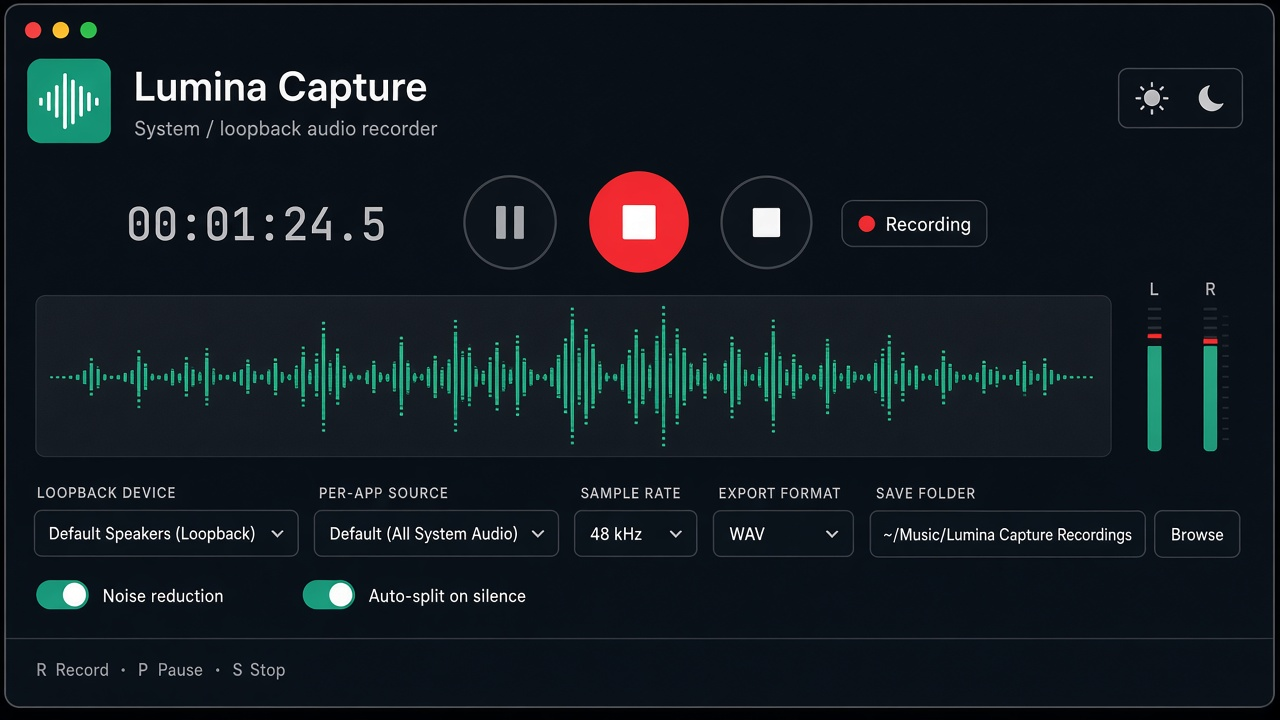
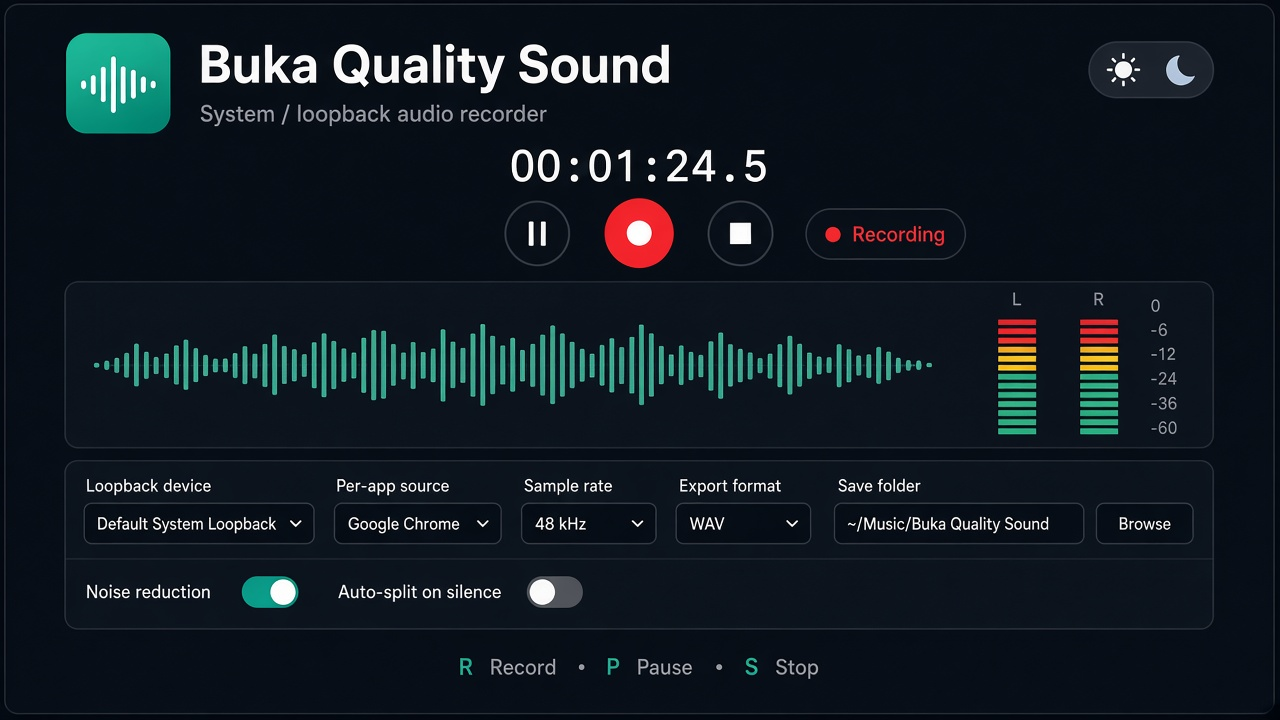
Rebrand to Buka Quality Sound and add portable zip
Rename user-facing product branding, bundle id, and crate/package
names; regenerate dark/light UI mockups; add portable package scripts
and distribution zip helpers for Desktop delivery.

diff --git a/system-audio-recorder/src/main.ts b/system-audio-recorder/src/main.ts
@@ -9,7 +9,7 @@ app.innerHTML = `
       <div class="brand">
         <div class="logo" aria-hidden="true"></div>
         <div>
-          <h1>Lumina Capture</h1>
+          <h1>Buka Quality Sound</h1>
           <p>System / loopback audio recorder</p>
         </div>
       </div>
@@ -161,7 +161,7 @@ function showError(msg: string) {
 
 function applyTheme(theme: "dark" | "light") {
   document.documentElement.setAttribute("data-theme", theme);
-  localStorage.setItem("lumina-theme", theme);
+  localStorage.setItem("buka-theme", theme);
   els.themeBtn.textContent = theme === "dark" ? "Light" : "Dark";
 }
 
@@ -331,7 +331,7 @@ async function stopRecording() {
 }
 
 async function init() {
-  const saved = localStorage.getItem("lumina-theme");
+  const saved = localStorage.getItem("buka-theme");
   applyTheme(saved === "light" ? "light" : "dark");
 
   const [caps, devices, apps, defaults, outDir] = await Promise.all([

diff --git a/system-audio-recorder/src/api.ts b/system-audio-recorder/src/api.ts
@@ -90,7 +90,7 @@ let demoPhase = 0;
 let demoSettings: RecordSettings = {
   sample_rate: "hz48000",
   format: "wav",
-  output_dir: "/home/user/Music/Lumina Capture",
+  output_dir: "/home/user/Music/Buka Quality Sound",
   device_id: "demo",
   app_source_id: "system",
   noise_reduction: false,
@@ -176,7 +176,7 @@ function demoStats(): SessionStats {
     file_path:
       demoState === "idle" && demoBytes === 0
         ? null
-        : `${demoSettings.output_dir}/lumina-capture-demo.wav`,
+        : `${demoSettings.output_dir}/buka-quality-sound-demo.wav`,
     segment_index: 0,
     sample_rate: demoSettings.sample_rate === "hz44100" ? 44100 : 48000,
     format: demoSettings.format,

diff --git a/system-audio-recorder/index.html b/system-audio-recorder/index.html
@@ -3,7 +3,7 @@
   <head>
     <meta charset="UTF-8" />
     <meta name="viewport" content="width=device-width, initial-scale=1.0" />
-    <title>Lumina Capture — System Audio Recorder</title>
+    <title>Buka Quality Sound — System Audio Recorder</title>
     <link rel="preconnect" href="https://fonts.googleapis.com" />
     <link rel="preconnect" href="https://fonts.gstatic.com" crossorigin />
     <link

diff --git a/system-audio-recorder/src-tauri/src/writer/mod.rs b/system-audio-recorder/src-tauri/src/writer/mod.rs
@@ -73,10 +73,10 @@ fn make_path(cfg: &WriterConfig, segment: u32) -> PathBuf {
         ExportFormat::Mp3 => "mp3",
     };
     let name = if segment == 0 {
-        format!("lumina-capture-{stamp}-{}.{}", cfg.sample_rate, ext)
+        format!("buka-quality-sound-{stamp}-{}.{}", cfg.sample_rate, ext)
     } else {
         format!(
-            "lumina-capture-{stamp}-{}-seg{:03}.{}",
+            "buka-quality-sound-{stamp}-{}-seg{:03}.{}",
             cfg.sample_rate, segment, ext
         )
     };

diff --git a/system-audio-recorder/src-tauri/src/commands.rs b/system-audio-recorder/src-tauri/src/commands.rs
@@ -78,7 +78,7 @@ pub fn default_output_dir() -> String {
 fn dirs_next_home() -> String {
     if let Some(mut d) = home_dir() {
         d.push("Music");
-        d.push("Lumina Capture");
+        d.push("Buka Quality Sound");
         let _ = std::fs::create_dir_all(&d);
         return d.display().to_string();
     }

diff --git a/system-audio-recorder/src-tauri/src/audio/linux.rs b/system-audio-recorder/src-tauri/src/audio/linux.rs
@@ -146,7 +146,7 @@ mod pulse_impl {
 
         let simple = Simple::new(
             None,
-            "Lumina Capture",
+            "Buka Quality Sound",
             Direction::Record,
             Some(source),
             "System audio loopback",

diff --git a/system-audio-recorder/src-tauri/src/lib.rs b/system-audio-recorder/src-tauri/src/lib.rs
@@ -34,5 +34,5 @@ pub fn run() {
             commands::default_output_dir,
         ])
         .run(tauri::generate_context!())
-        .expect("error while running Lumina Capture");
+        .expect("error while running Buka Quality Sound");
 }

diff --git a/system-audio-recorder/src-tauri/src/main.rs b/system-audio-recorder/src-tauri/src/main.rs
@@ -1,5 +1,5 @@
 #![cfg_attr(not(debug_assertions), windows_subsystem = "windows")]
 
 fn main() {
-    system_audio_recorder_lib::run();
+    buka_quality_sound_lib::run();
 }

diff --git a/system-audio-recorder/README.md b/system-audio-recorder/README.md
@@ -1,4 +1,4 @@
-# Lumina Capture — System Audio Recorder
+# Buka Quality Sound — System Audio Recorder
 
 Professional desktop app for capturing **system / loopback audio only** (what your computer is playing — not the microphone). Built for musicians, streamers, and content creators.
 
@@ -39,7 +39,7 @@ Capture never blocks the UI. A bounded channel keeps latency low; metering and e
 - There is no WASAPI/CoreAudio-style first-class loopback API.
 - We open a **sink monitor** (what is playing on that sink), not a mic source.
 - Listing individual apps is best-effort; clean per-app capture usually needs manual PipeWire routing.
-- Enable the optional Cargo feature `linux-pulse` and install `libpulse` headers for real monitor capture. Without it, a silent/demo tone path is used so the UI pipeline still runs in CI.
+- Enable the optional Cargo feature `linux-pulse` and install `libpulse` development headers for real monitor capture. Without it, a silent/demo tone path is used so the UI pipeline still runs in CI.
 
 ---
 
@@ -62,31 +62,21 @@ Capture never blocks the UI. A bounded channel keeps latency low; metering and e
 ## Project layout
 
 ```
-system-audio-recorder/
+system-audio-recorder/          # app root (package: buka-quality-sound)
 ├── README.md
-├── package.json              # Vite + Tauri frontend tooling
-├── src/                      # UI (TypeScript)
-│   ├── main.ts               # Transport, waveform, meters, hotkeys, themes
-│   ├── api.ts                # Tauri IPC + browser demo fallback
+├── package.json
+├── scripts/                    # portable build helpers
+├── src/                        # UI (TypeScript)
+│   ├── main.ts
+│   ├── api.ts
 │   └── styles.css
-└── src-tauri/                # Rust backend
+└── src-tauri/                  # Rust backend (crate: buka-quality-sound)
     ├── Cargo.toml
-    ├── tauri.conf.json
-    ├── capabilities/
+    ├── tauri.conf.json         # productName: Buka Quality Sound
     └── src/
-        ├── audio/            # AudioEngine + platform backends + DSP
-        │   ├── engine.rs
-        │   ├── wasapi.rs     # Windows
-        │   ├── coreaudio.rs  # macOS
-        │   ├── linux.rs      # Pulse/PipeWire monitor
-        │   ├── meter.rs
-        │   ├── noise_reduce.rs
-        │   └── silence_split.rs
-        ├── writer/           # FileWriter (WAV / MP3)
-        │   ├── wav.rs
-        │   └── mp3.rs
-        ├── commands.rs       # Tauri command surface
-        └── lib.rs
+        ├── audio/              # AudioEngine + platform backends + DSP
+        ├── writer/             # FileWriter (WAV / MP3)
+        └── commands.rs
 ```
 
 **Modules**
@@ -125,34 +115,32 @@ Frontend-only UI demo (no native loopback — useful for layout work):
 npm run dev
 ```
 
-### Production build
+### Production / portable package
 
 ```bash
-npm run tauri:build
+npm run tauri:build          # full native installers when toolchain allows
+./scripts/make-portable.sh   # source + scripts portable zip (cross-platform)
 ```
-
-Artifacts land under `src-tauri/target/release/bundle/`.
 
 ### Linux with real Pulse monitor capture
 
 ```bash
 cd src-tauri
 cargo build --features linux-pulse
-# or set in Cargo.toml default features, then:
 npm run tauri:dev
 ```
 
 ### Testing capture on Windows
 
 1. Play music or a browser tab.
-2. Launch Lumina Capture; confirm the default **render** device (speakers/headphones).
+2. Launch **Buka Quality Sound**; confirm the default **render** device (speakers/headphones).
 3. Choose save folder → Record. Confirm meters move **without** speaking into a mic.
 4. For per-app: pick a process source (Win10 2004+). If unavailable, “All system audio” still works.
 5. Export WAV @ 48 kHz and MP3 @ 44.1 kHz; verify in a DAW.
 
 ### Testing capture on macOS
 
-1. System Settings → Privacy & Security → **Screen Recording** → enable Lumina Capture.
+1. System Settings → Privacy & Security → **Screen Recording** → enable **Buka Quality Sound**.
 2. Play system audio; Record. Meters should reflect playback, not the mic.
 3. Use per-app filter when SCK lists applications.
 4. If permission is denied, the UI shows a clear error — re-enable and restart the app.
@@ -171,4 +159,4 @@ No accounts, no network calls, no telemetry. Files are written only to the folde
 
 ## License
 
-MIT — see repository root if present; otherwise treat this app folder as MIT for Lumina Capture sources.
+MIT — treat this app folder as MIT for Buka Quality Sound sources.

diff --git a/system-audio-recorder/scripts/PORTABLE.md b/system-audio-recorder/scripts/PORTABLE.md
@@ -1,0 +1,50 @@
+# Buka Quality Sound — Portable Package
+
+This zip is a **portable distribution** of **Buka Quality Sound** (system / loopback audio recorder).
+
+It includes the full app source, a prebuilt web UI (`dist/`), and platform launch scripts.
+On Windows and macOS you get real WASAPI / Core Audio loopback after a one-time toolchain setup.
+A full native installer binary is produced with `npm run tauri:build` on each OS.
+
+## Quick start
+
+### Windows
+1. Install [Node.js 20+](https://nodejs.org/) and [Rust](https://rustup.rs/) (MSVC toolchain).
+2. Double-click `run-windows.bat` **or** open a terminal in this folder and run it.
+3. First launch runs `npm install` then `npm run tauri:dev`.
+
+### macOS
+1. Install Node.js 20+, Rust, and Xcode Command Line Tools.
+2. Grant **Screen Recording** when prompted (required for system audio).
+3. ```bash
+   chmod +x run-macos.sh
+   ./run-macos.sh
+   ```
+
+### Linux
+1. Install Node.js 20+, Rust, and Tauri Linux deps (`libwebkit2gtk-4.1-dev`, `libgtk-3-dev`).
+2. Optional real capture: `libpulse-dev` and Cargo feature `linux-pulse`.
+3. ```bash
+   chmod +x run-linux.sh
+   ./run-linux.sh
+   ```
+
+### UI-only preview (any OS with Node)
+```bash
+cd system-audio-recorder
+npm install
+npm run preview
+```
+Opens the polished UI with a demo audio meter (no native loopback).
+
+## App location
+
+```
+system-audio-recorder/     ← project root (package: buka-quality-sound)
+```
+
+See `system-audio-recorder/README.md` for architecture, backends, and production builds.
+
+## Offline-first
+
+No accounts, cloud services, or telemetry. Recordings save only to the folder you choose.

diff --git a/README.md b/README.md
@@ -1,5 +1,5 @@
 # Lumina OS
 
-This repository currently ships **Lumina Capture**, a professional desktop **system / loopback audio recorder**.
+This repository currently ships **Buka Quality Sound**, a professional desktop **system / loopback audio recorder**.
 
 → See [`system-audio-recorder/README.md`](./system-audio-recorder/README.md) for architecture, capture backends (WASAPI / Core Audio / Linux monitor), and build instructions for Windows & macOS.
